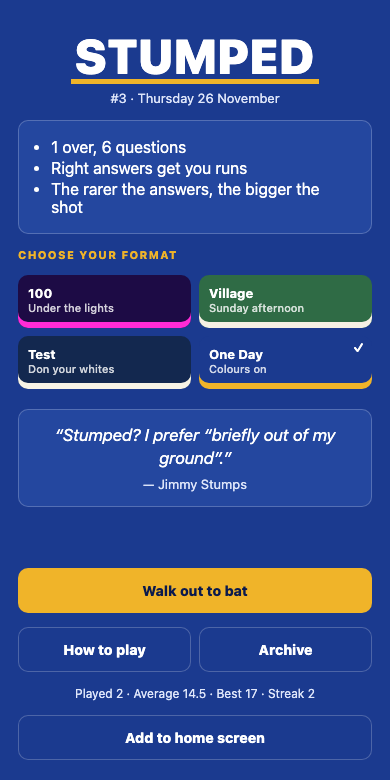
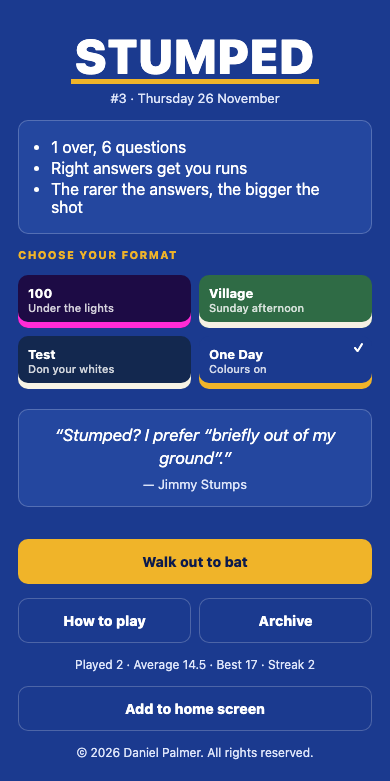
Add an all-rights-reserved copyright notice to the README and home screen

diff --git a/src/ui/app.ts b/src/ui/app.ts
@@ -118,6 +118,8 @@ function fragment(html: string): Node {
   return t.content.firstChild ?? document.createTextNode("");
 }
 
+const COPYRIGHT = "© 2026 Daniel Palmer. All rights reserved.";
+
 const HOW_TO_PLAY = `<div class="sheet-backdrop">
   <section class="sheet" role="dialog" aria-modal="true" aria-labelledby="htp-title">
     <h2 id="htp-title">How to play</h2>
@@ -656,7 +658,7 @@ export class App {
       <div class="grow"></div><button class="btn wide" data-act="walk"${this.beforeLaunch() ? " disabled" : ""}>${cta}</button>
       <div class="home-links"><button class="btn ghost" data-act="help">How to play</button>${
         this.beforeLaunch() ? "" : `<button class="btn ghost" data-act="archive">Archive</button>`
-      }</div>${stat}${this.installHtml()}</main>
+      }</div>${stat}${this.installHtml()}<footer class="copyright">${COPYRIGHT}</footer></main>
       ${this.helpOpen || !this.saved.seenHelp ? HOW_TO_PLAY : ""}`;
   }
 

diff --git a/tests/e2e/game.spec.ts b/tests/e2e/game.spec.ts
@@ -601,3 +601,10 @@ for (const [time, text] of [
     );
   });
 }
+
+test("the home screen carries the copyright notice", async ({ context }) => {
+  const page = await open(context, LAUNCH);
+  await expect(page.locator("footer.copyright")).toHaveText(
+    "© 2026 Daniel Palmer. All rights reserved.",
+  );
+});

diff --git a/src/styles.css b/src/styles.css
@@ -497,7 +497,8 @@ button {
   font-size: 12px;
   line-height: 1;
 }
-.statline {
+.statline,
+.copyright {
   text-align: center;
   color: var(--muted);
   font-size: 12px;

diff --git a/docs/CRITERIA.md b/docs/CRITERIA.md
@@ -18,6 +18,8 @@ Items marked 🤖 must be enforced by an automated test.
 - [ ] The only exception is question answers, which may name real things as facts (players, grounds including sponsored names, teams, tournaments).
 - [ ] Every dependency (runtime and dev) is open source and free to use with no commercial restrictions. Allowed licences: MIT, ISC, BSD-2-Clause, BSD-3-Clause, 0BSD, Apache-2.0, MPL-2.0, CC0-1.0, Unlicense. Not allowed: GPL/AGPL/LGPL, SSPL, BUSL, Elastic, Commons Clause, CC-BY-NC, unlicensed or proprietary. 🤖
 - [ ] Prefer no runtime dependencies; adding one needs a reason.
+- [ ] All rights are reserved: the repo has no licence, and the README ends with "© 2026 Daniel Palmer. All rights reserved."
+- [ ] The home screen footer reads "© 2026 Daniel Palmer. All rights reserved." 🤖
 
 ## Gameplay
 

diff --git a/docs/REQUIREMENTS.md b/docs/REQUIREMENTS.md
@@ -217,3 +217,4 @@ the anonymous counts in §1.
 - 2026-11-25: When the timer runs out, an answer still in the box is played as a last guess. The answer button is labelled "Swing" (was "Play").
 - 2026-11-25: From 9pm to 5am the scene is floodlit; the first ball's scene starts dark and the lights come on after 1 s.
 - 2026-11-25: Ball one greets the player by local time: "Good morning" 5am–noon, "Good afternoon" noon–6pm, "Good evening" 6pm–midnight, none midnight–5am.
+- 2026-11-26: All rights reserved, with no licence: the home screen footer and the README read "© 2026 Daniel Palmer. All rights reserved."

diff --git a/README.md b/README.md
@@ -60,3 +60,7 @@ npm run build && npm run preview:https
 
 Open `https://<your-computer-ip>:4443/stumped/` on the phone and accept the certificate warning (it's a
 self-signed certificate for local testing). GitHub Pages is https, so the live site needs nothing extra.
+
+## Copyright
+
+© 2026 Daniel Palmer. All rights reserved.
